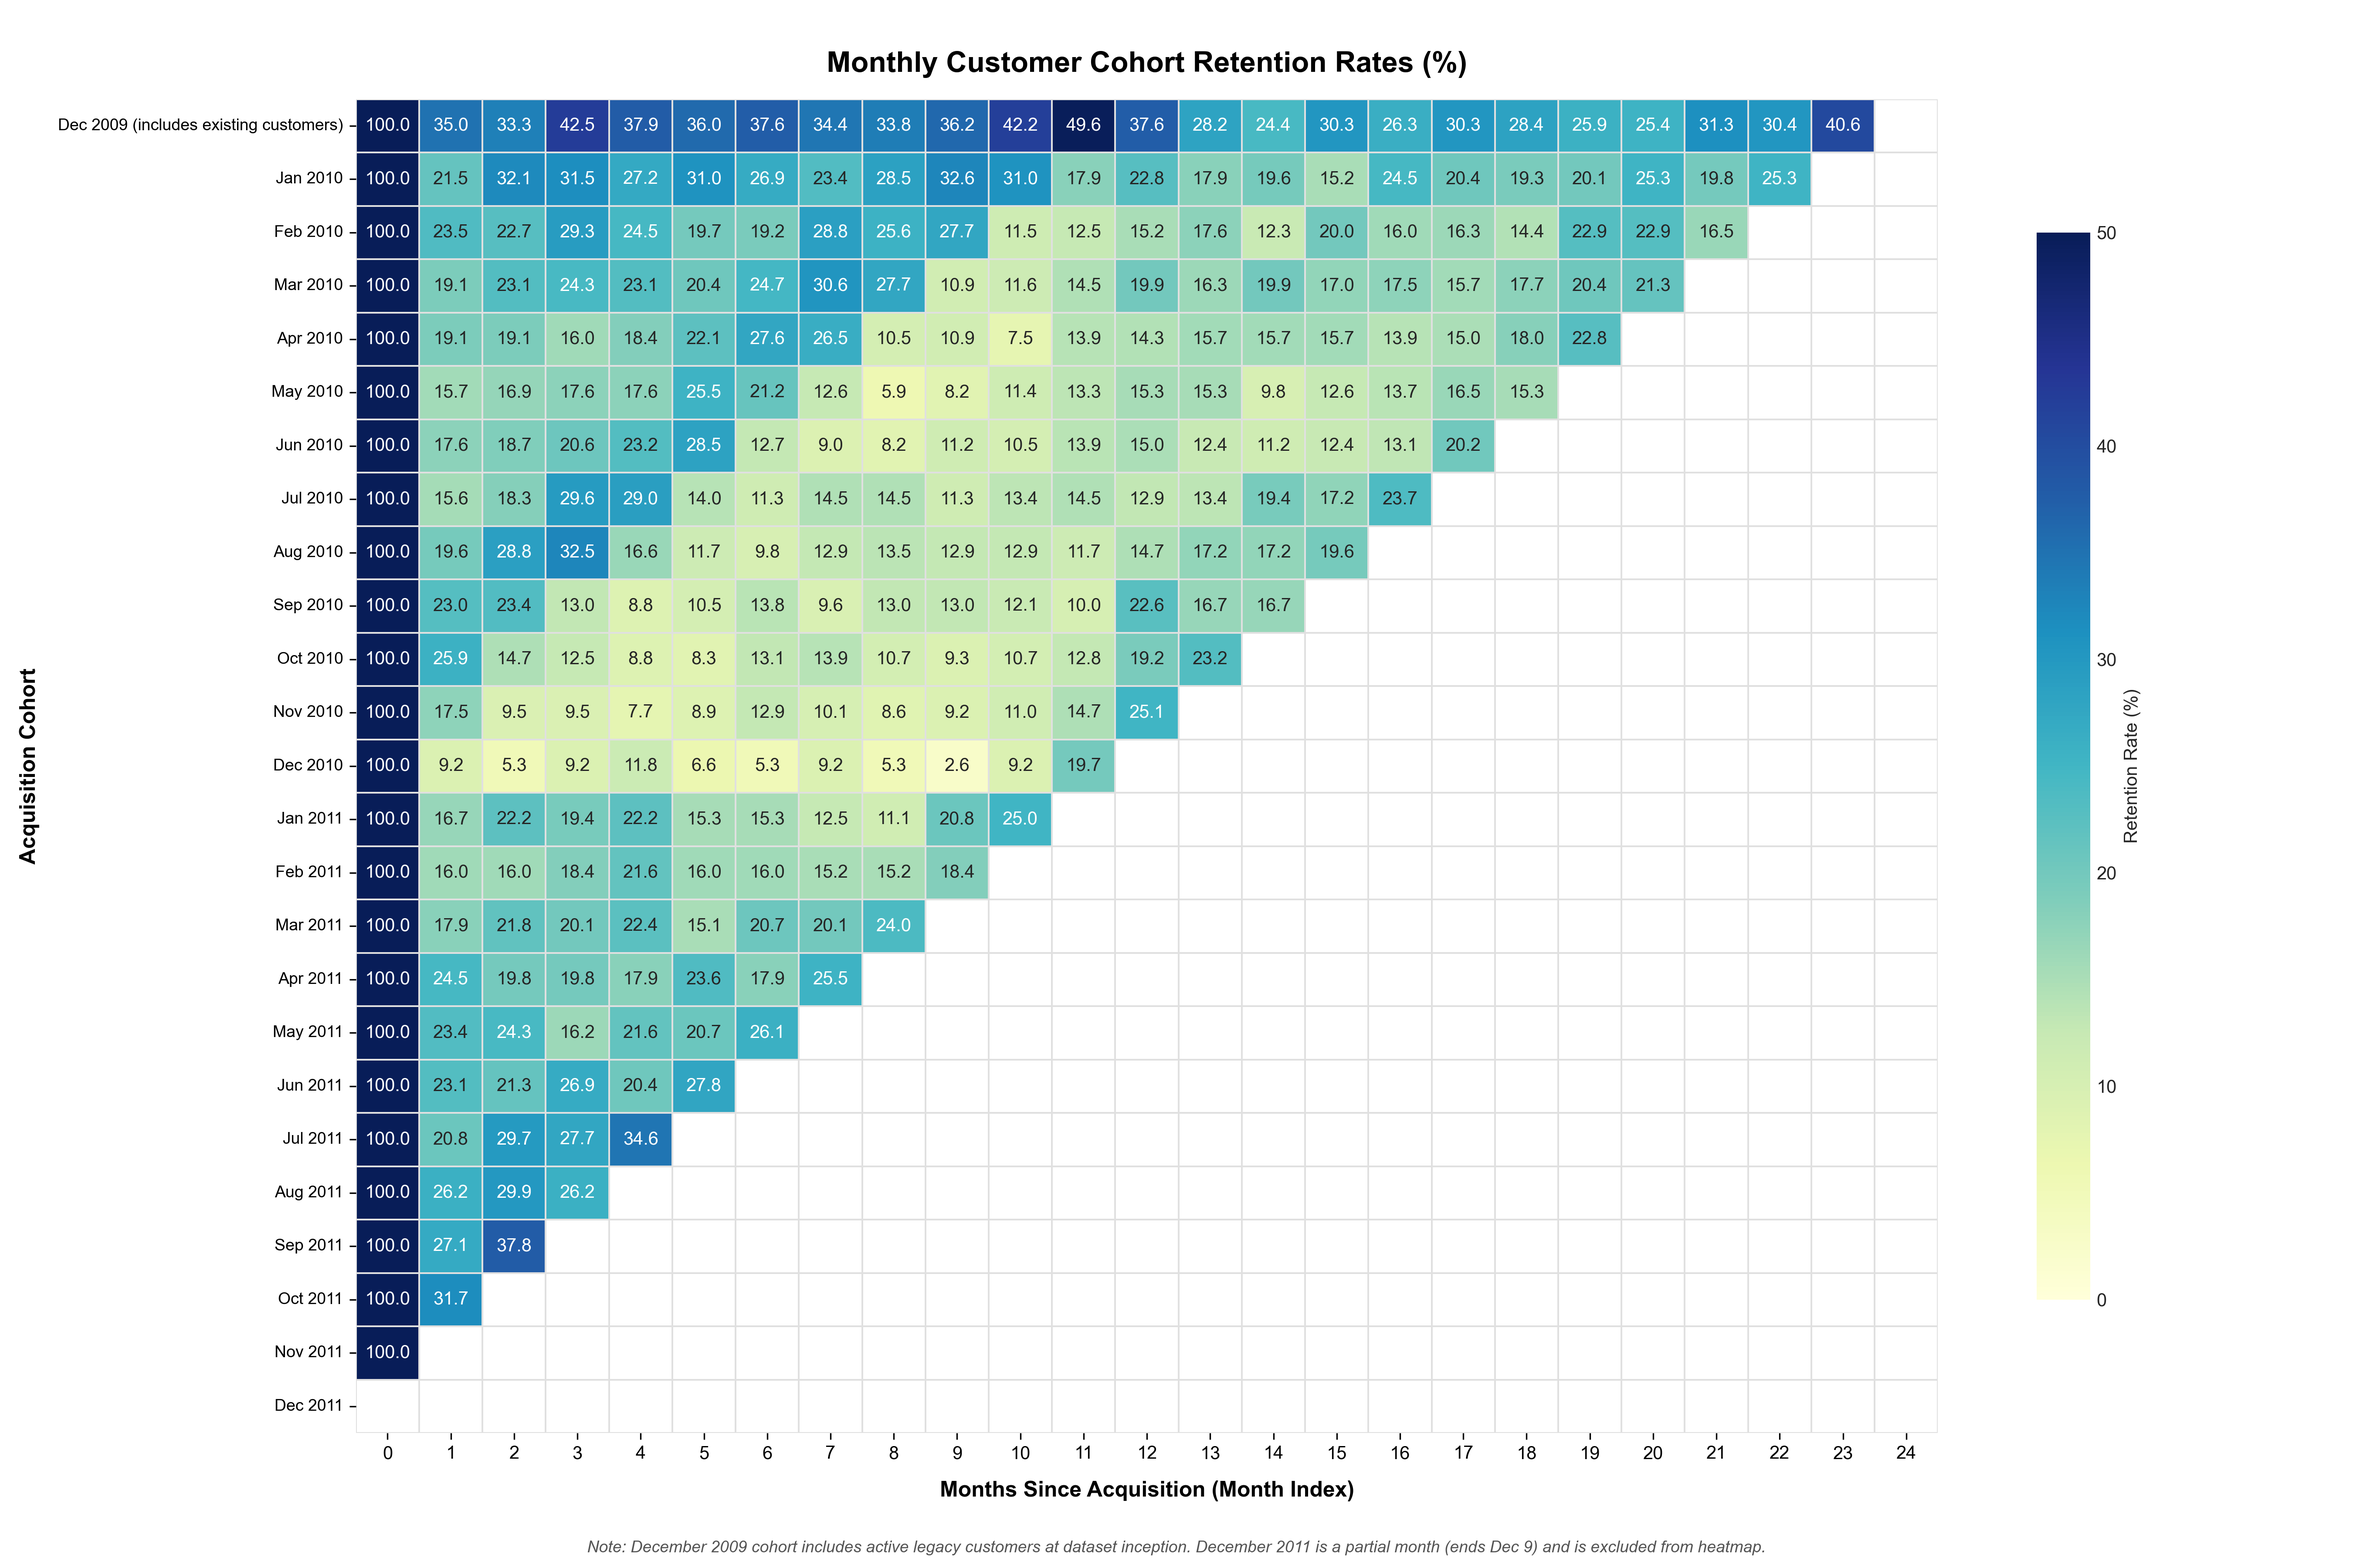
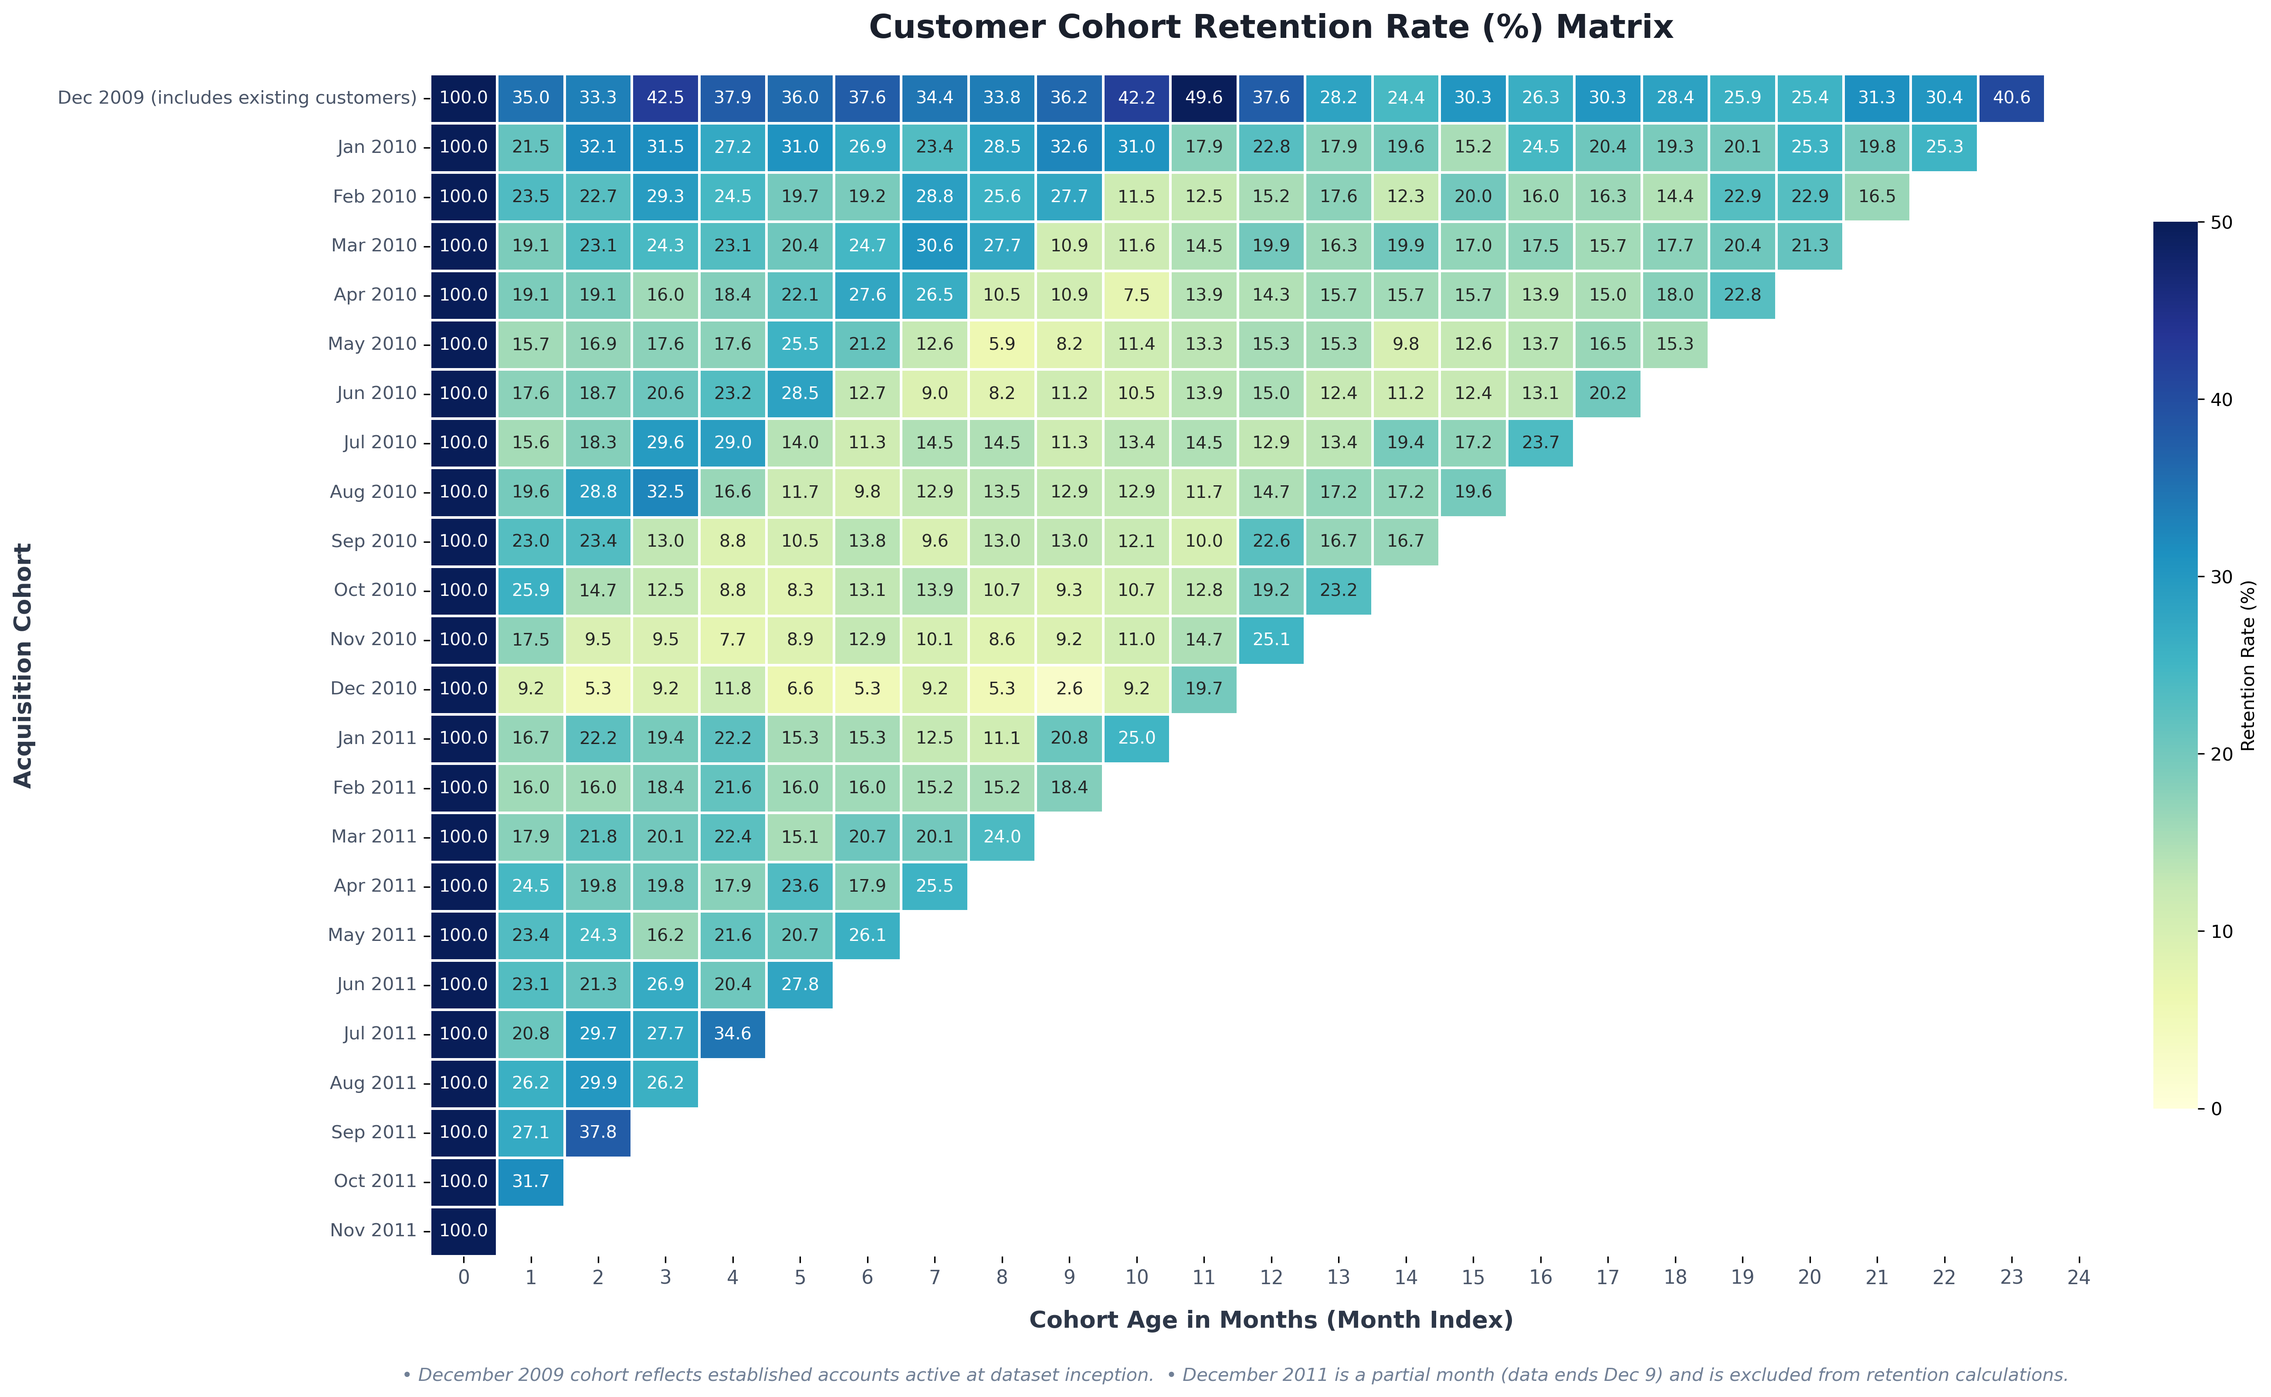
style: refine cohort retention heatmap presentation

diff --git a/src/charts.py b/src/charts.py
@@ -34,21 +34,24 @@ def generate_cohort_heatmap(
     # Read cohort retention table
     df = conn.execute("SELECT * FROM cohort_retention").df()
 
-    # Prepare matrix for heatmap
-    # Mask partial month (Dec 2011) to avoid 9-day truncation visual bias
-    df_heatmap = df.copy()
-    df_heatmap.loc[df_heatmap["is_partial_month"], "retention_pct"] = np.nan
+    # Filter out Dec 2011 from cohort rows (has only 9 days of activity and zero retention horizons)
+    df_clean = df[df["cohort_month"] != pd.to_datetime("2011-12-01").date()].copy()
+    # Mask partial month December 2011 from retention columns to prevent truncated visual bias
+    df_clean.loc[df_clean["is_partial_month"], "retention_pct"] = np.nan
 
-    pivot_table = df_heatmap.pivot(
+    pivot_table = df_clean.pivot(
         index="cohort_label", columns="month_index", values="retention_pct"
     )
 
     # Order cohorts chronologically
-    cohort_order = conn.execute("""
-        SELECT DISTINCT cohort_label, cohort_month 
-        FROM cohort_retention 
-        ORDER BY cohort_month
-    """).df()["cohort_label"].tolist()
+    cohort_order = [
+        c for c in conn.execute("""
+            SELECT DISTINCT cohort_label, cohort_month 
+            FROM cohort_retention 
+            ORDER BY cohort_month
+        """).df()["cohort_label"].tolist()
+        if "Dec 2011" not in c
+    ]
 
     pivot_table = pivot_table.reindex(cohort_order)
 
